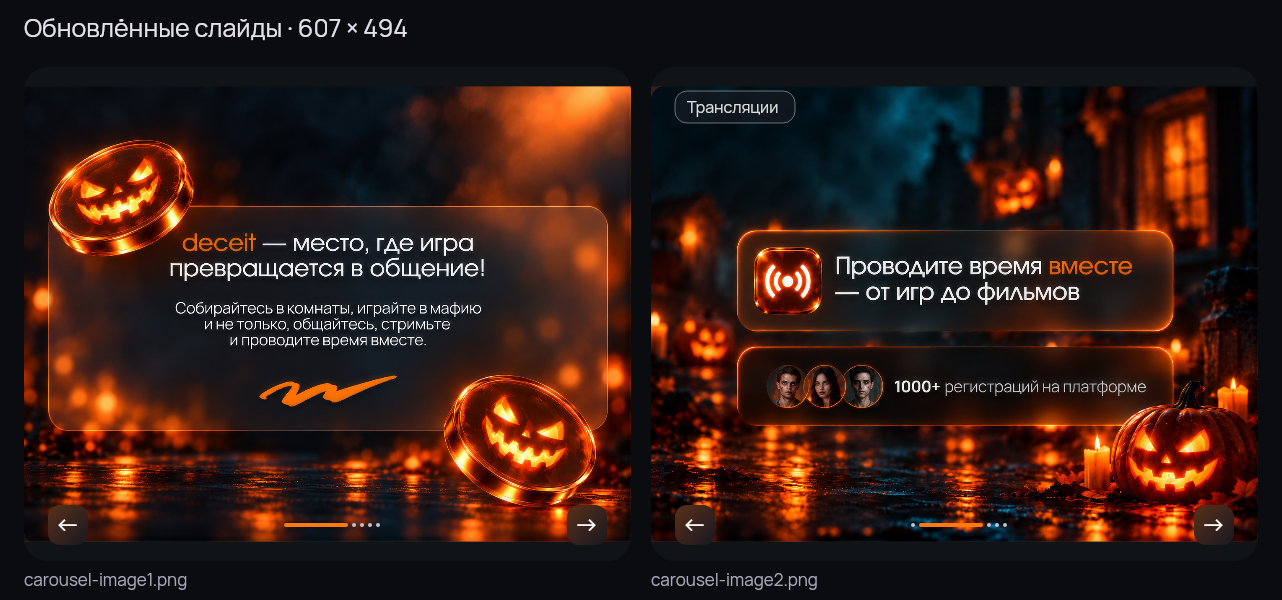
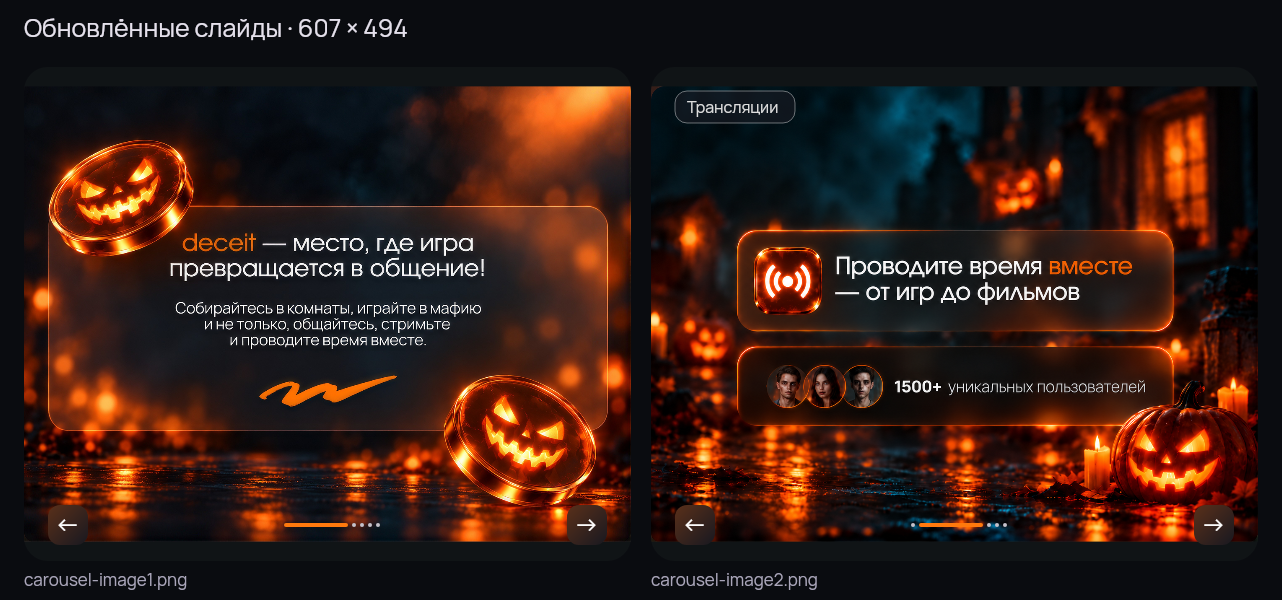
85 halloween redesign homepage

diff --git a/frontend/halloween/preview.html b/frontend/halloween/preview.html
@@ -6,7 +6,7 @@
 *{box-sizing:border-box}body{margin:0;padding:28px;background:#0a0c10;color:#fff;font-family:Hauora-Regular,Arial,sans-serif}header{max-width:1234px;margin:0 auto 24px}h1{font-family:Involve-Medium,Arial,sans-serif;font-size:28px;font-weight:500;margin:0 0 8px}header p{margin:0;color:#aeb5bd;font-size:16px;line-height:1.5}.gallery{display:grid;grid-template-columns:repeat(2,607px);gap:22px 20px;max-width:1234px;margin:auto}h2{font-size:15px;font-weight:400;color:#b8c1ca;margin:0 0 10px}.home-carousel{width:607px;height:494px;position:relative;overflow:hidden;border-radius:24px}.slide{position:absolute;inset:0}.background-image{position:absolute;inset:0;width:607px;height:494px;border-radius:24px}.chip{position:absolute;top:24px;left:24px;z-index:5;padding:8px 12px;border:1px solid #ffffff45;border-radius:12px;background:#ffffff12;backdrop-filter:blur(4px);font-size:16px;line-height:16px;color:#ddd}.carousel-controls{position:absolute;z-index:5;bottom:16px;left:24px;right:24px;display:flex;align-items:center;justify-content:space-between;height:40px}.nav-btn{display:flex;align-items:center;justify-content:center;width:40px;height:40px;border-radius:12px;font:25px Arial;color:white}.carousel-dots{display:flex;align-items:center;gap:4px}.carousel-dot{width:4px;height:4px;border-radius:99px;background:#c5c2cb}.carousel-dot.active{width:64px}.install{position:absolute;z-index:5;left:24px;bottom:88px;background:#ff790d;color:#20130c;border-radius:99px;padding:10px 17px;font-size:18px}.banners{display:flex;flex-direction:column;gap:20px}.right-extra{position:relative;overflow:hidden;border-radius:24px;width:607px;padding:24px;display:flex;align-items:center}.right-extra--primary{height:158px}.right-extra--secondary{height:128px}.right-extra img{position:absolute;inset:0;width:100%;height:100%;object-fit:cover}.right-extra-content{position:relative;z-index:1;display:flex;flex-direction:column;align-items:flex-start;gap:16px}.right-extra-copy-subscription{width:275px;font-family:Involve-Medium;font-size:24px;line-height:26px;letter-spacing:-.48px}.right-extra-copy-accent{margin-left:8px}.right-extra-copy-connect{font-family:Hauora-Bold;font-size:16px;line-height:18px;letter-spacing:-.32px}.right-extra-btn{width:40px;height:40px;border:1px solid #5aa4a5;border-radius:12px;display:grid;place-items:center;font:20px Arial;background:#0a0d12aa}.right-extra-btn span{background:white;color:#15171b;border-radius:99px;width:17px;height:17px;font-size:16px;line-height:17px;text-align:center}@media(max-width:1280px){.gallery{grid-template-columns:607px;justify-content:center}header{max-width:607px}}@media(max-width:660px){body{padding:16px}.gallery{justify-content:start}header{min-width:607px}}
 </style></head><body><header><h1>Выбранный комплект Halloween</h1><p>Слайды 1 и 2 — новые изображения пользователя со встроенным текстом. Слайд 5 и подписка — серия 2; слайды 3 и 4, обратная связь — серия 3.<br>Слайды 1 и 2 вписаны целиком без обрезки; размер области каждого слайда — 607 × 494.</p></header><main class="home-page gallery">
 <section><h2>1 · Знакомство — изображение пользователя</h2><div class="home-carousel"><article class="slide slide--1"><img class="background-image" src="./carousel-image1.png" alt="deceit — место, где игра превращается в общение! Собирайтесь в комнаты, играйте в мафию и не только, общайтесь, стримьте и проводите время вместе."><div class="seasonal-copy seasonal-copy--1" aria-hidden="true"></div></article><div class="carousel-controls" aria-hidden="true"><span class="nav-btn">←</span><div class="carousel-dots"><span class="carousel-dot active"></span><span class="carousel-dot"></span><span class="carousel-dot"></span><span class="carousel-dot"></span><span class="carousel-dot"></span></div><span class="nav-btn">→</span></div></div></section>
-<section><h2>2 · Трансляции — изображение пользователя</h2><div class="home-carousel"><article class="slide slide--2"><img class="background-image" src="./carousel-image2.png" alt="Проводите время вместе — от игр до фильмов. 1000+ регистраций на платформе."><div class="seasonal-copy seasonal-copy--2" aria-hidden="true"></div><span class="chip">Трансляции</span></article><div class="carousel-controls" aria-hidden="true"><span class="nav-btn">←</span><div class="carousel-dots"><span class="carousel-dot"></span><span class="carousel-dot active"></span><span class="carousel-dot"></span><span class="carousel-dot"></span><span class="carousel-dot"></span></div><span class="nav-btn">→</span></div></div></section>
+<section><h2>2 · Трансляции — изображение пользователя</h2><div class="home-carousel"><article class="slide slide--2"><img class="background-image" src="./carousel-image2.png" alt="Проводите время вместе — от игр до фильмов. 1500+ уникальных пользователей."><div class="seasonal-copy seasonal-copy--2" aria-hidden="true"></div><span class="chip">Трансляции</span></article><div class="carousel-controls" aria-hidden="true"><span class="nav-btn">←</span><div class="carousel-dots"><span class="carousel-dot"></span><span class="carousel-dot active"></span><span class="carousel-dot"></span><span class="carousel-dot"></span><span class="carousel-dot"></span></div><span class="nav-btn">→</span></div></div></section>
 <section><h2>3 · Статистика — серия 3</h2><div class="home-carousel"><article class="slide slide--3"><img class="background-image" src="./carousel-image3.png" alt=""><div class="seasonal-copy seasonal-copy--3"><p class="seasonal-copy-caption">Следи за своим уровнем<br>игры и <span class="seasonal-copy-accent">становись сильнее!</span></p></div><span class="chip">Статистика</span></article><div class="carousel-controls" aria-hidden="true"><span class="nav-btn">←</span><div class="carousel-dots"><span class="carousel-dot"></span><span class="carousel-dot"></span><span class="carousel-dot active"></span><span class="carousel-dot"></span><span class="carousel-dot"></span></div><span class="nav-btn">→</span></div></div></section>
 <section><h2>4 · Комьюнити — серия 3</h2><div class="home-carousel"><article class="slide slide--4"><img class="background-image" src="./carousel-image4.png" alt=""><div class="seasonal-copy seasonal-copy--4"><p class="seasonal-copy-caption">Пространство для <span class="seasonal-copy-accent">общения</span><br>и новых знакомств!</p></div><span class="chip">Комьюнити</span></article><div class="carousel-controls" aria-hidden="true"><span class="nav-btn">←</span><div class="carousel-dots"><span class="carousel-dot"></span><span class="carousel-dot"></span><span class="carousel-dot"></span><span class="carousel-dot active"></span><span class="carousel-dot"></span></div><span class="nav-btn">→</span></div></div></section>
 <section><h2>5 · Web App — серия 2</h2><div class="home-carousel"><article class="slide slide--5"><img class="background-image" src="./carousel-image5.png" alt=""><div class="seasonal-copy seasonal-copy--5"><p class="seasonal-copy-caption">Запусти платформу как<br><span class="seasonal-copy-accent">отдельное</span> приложение</p></div><span class="chip">Web App</span><span class="install">Установить</span></article><div class="carousel-controls" aria-hidden="true"><span class="nav-btn">←</span><div class="carousel-dots"><span class="carousel-dot"></span><span class="carousel-dot"></span><span class="carousel-dot"></span><span class="carousel-dot"></span><span class="carousel-dot active"></span></div><span class="nav-btn">→</span></div></div></section>

diff --git a/frontend/halloween/home-options.html b/frontend/halloween/home-options.html
@@ -195,7 +195,7 @@ body{margin:0;background:#090e11}
   }).join('');
   var slides = [
     { title: '', copy: '', alt: 'deceit — место, где игра превращается в общение! Собирайтесь в комнаты, играйте в мафию и не только, общайтесь, стримьте и проводите время вместе.' },
-    { title: 'Трансляции', copy: '', alt: 'Проводите время вместе — от игр до фильмов. 1000+ регистраций на платформе.' },
+    { title: 'Трансляции', copy: '', alt: 'Проводите время вместе — от игр до фильмов. 1500+ уникальных пользователей.' },
     { title: 'Статистика', copy: '<p class="seasonal-copy-caption">Следи за своим уровнем<br>игры и <span class="seasonal-copy-accent">становись сильнее!</span></p>' },
     { title: 'Комьюнити', copy: '<p class="seasonal-copy-caption">Пространство для <span class="seasonal-copy-accent">общения</span><br>и новых знакомств!</p>' },
     { title: 'Web App', copy: '<p class="seasonal-copy-caption">Запусти платформу как<br><span class="seasonal-copy-accent">отдельное</span> приложение</p>' }

diff --git a/frontend/halloween/SeasonalSlideCopy.vue b/frontend/halloween/SeasonalSlideCopy.vue
@@ -6,7 +6,7 @@
     </template>
     <template v-else-if="slide === 2">
       <p class="seasonal-copy-title">Проводите время <span class="seasonal-copy-accent">вместе</span> —<br>от игр до фильмов</p>
-      <p class="seasonal-copy-meta">1000+ регистраций на платформе</p>
+      <p class="seasonal-copy-meta">1500+ уникальных пользователей</p>
     </template>
     <p v-else-if="slide === 3" class="seasonal-copy-caption">Следи за своим уровнем<br>игры и <span class="seasonal-copy-accent">становись сильнее!</span></p>
     <p v-else-if="slide === 4" class="seasonal-copy-caption">Пространство для <span class="seasonal-copy-accent">общения</span><br>и новых знакомств!</p>

diff --git a/frontend/halloween/README.md b/frontend/halloween/README.md
@@ -8,9 +8,9 @@
 - `frontend/src/pages/Room.vue`
 - `frontend/vite.config.ts`
 
-Отдельно, по просьбе пользователя, `frontend/src/assets/images/killPlayer.png` заменён на постоянную иллюстрацию: мафиози в федоре, убитый игрок и бирюзовый призрак. Она используется и без Halloween и остаётся после отката темы. Для Halloween в этой папке находится другая версия `killPlayer.png`. Остальные исходные изображения в `frontend/src/assets/images/` сохранены.
+Отдельно, по просьбе пользователя, `frontend/src/assets/images/killPlayer.png` заменён на постоянную иллюстрацию: мафиози в федоре, убитый игрок и бирюзовый призрак. Она используется и без Halloween и остаётся после отката темы. Для Halloween в этой папке находится другая версия `killPlayer.png`. В обычном `frontend/src/assets/images/carousel-image2.png` также обновлена надпись на «1500+ уникальных пользователей»; эта правка остаётся после отката темы. Остальные исходные изображения в `frontend/src/assets/images/` сохранены.
 
-Первые два слайда `carousel-image1.png` и `carousel-image2.png` заменены прикреплёнными пользователем изображениями 1448×1086 без редактирования. Текст на них сохранён; повторный HTML-слой скрыт только для этих двух слайдов. Они вписываются целиком в карусель через `object-fit: contain`, поэтому края, монеты, тыква и надписи не обрезаются. Остальные слайды сохраняют прежние изображения и отдельный текстовый слой. Эти изменения целиком находятся в папке темы.
+Первые два сезонных слайда `carousel-image1.png` и `carousel-image2.png` используют прикреплённые пользователем изображения. На втором слайде надпись обновлена на «1500+ уникальных пользователей», как и в обычной версии. Повторный HTML-слой скрыт только для этих двух слайдов. Они вписываются целиком в карусель через `object-fit: contain`, поэтому края, монеты, тыква и надписи не обрезаются. Остальные слайды сохраняют прежние изображения и отдельный текстовый слой. Сезонные изменения целиком находятся в папке темы.
 
 В комнате сезонные изображения заменяют шесть игровых статусов, сохраняя прежние условия их показа:
 
@@ -31,11 +31,13 @@
 
 При наведении мыши и фокусе с клавиатуры пальцы кнопки создания комнаты слегка стягиваются к центру, а оранжевая поверхность немного сжимается. При нажатии захват усиливается, при отпускании плавно возвращается. Область клика и текст не двигаются, недоступная кнопка не анимируется. Системная настройка `prefers-reduced-motion: reduce` отключает движение. Эффект выполнен в `theme.css` с существующим изображением пальцев; дополнительных кадров и правок компонентов нет.
 
+Обычный `frontend/src/assets/images/carousel-image2.png` сохранён в исходном разрешении 607×494 с прозрачностью скруглённых углов. Надпись остаётся «1500+ уникальных пользователей».
+
 ## Полный откат к старому дизайну
 
 Сначала прочитайте инструкцию: при удалении папки она тоже исчезнет.
 
-Откат убирает Halloween-оформление. Постоянная замена `frontend/src/assets/images/killPlayer.png` в него не входит: понравившаяся иллюстрация остаётся обычным изображением ночного убийства.
+Откат убирает Halloween-оформление. Постоянная замена `frontend/src/assets/images/killPlayer.png` и надпись «1500+ уникальных пользователей» в обычном `carousel-image2.png` в него не входят: эти изменения сохраняются.
 
 ### Простой способ: готовый патч
 
@@ -195,13 +197,13 @@ npm --prefix frontend run typecheck
 npm --prefix frontend run build
 ```
 
-После обычной публикации вернётся оформление без Halloween, с обновлённым постоянным `killPlayer.png`. Без перечисленных правок удаление исходной папки вызовет ошибку импорта при следующей сборке, поэтому для полного отката нужны оба действия.
+После обычной публикации вернётся оформление без Halloween, с обновлённым постоянным `killPlayer.png` и надписью «1500+ уникальных пользователей» в обычном втором слайде. Без перечисленных правок удаление исходной папки вызовет ошибку импорта при следующей сборке, поэтому для полного отката нужны оба действия.
 
 ## Быстрое отключение на уже работающем сервере
 
 При сборке публикуются семь фоновых PNG, пять декоративных ресурсов (два PNG и три SVG), шесть PNG игровых статусов, `manifest.json` и `theme.css` по прежнему адресу `/seasonal/halloween/`: всего 20 файлов, включая 18 изображений. Инструкция, патч, тесты, промпты и исходные TS-файлы туда не копируются.
 
-Удаление опубликованной папки `seasonal/halloween/` и обновление страницы возвращают штатное оформление без пересборки; новая постоянная версия `killPlayer.png` сохраняется. В текущем контейнере Nginx папка находится в `/usr/share/nginx/html/seasonal/halloween/`.
+Удаление опубликованной папки `seasonal/halloween/` и обновление страницы возвращают штатное оформление без пересборки; новая постоянная версия `killPlayer.png` и надпись «1500+ уникальных пользователей» в обычном втором слайде сохраняются. В текущем контейнере Nginx папка находится в `/usr/share/nginx/html/seasonal/halloween/`.
 
 Это временное отключение до следующего развёртывания из прежнего образа. Для постоянного полного отката выполните раздел выше. Удаление только локальной папки не меняет уже запущенный контейнер.
 
@@ -229,6 +231,7 @@ npm --prefix frontend run build
 - `check-home-season.mjs` — проверки включения темы, отключения и недоступных ресурсов.
 - `preview.html` — локальное превью комплекта; откройте файл в браузере.
 - `carousel-update-preview.png` — предпросмотр первых двух пользовательских изображений в области 607×494 с элементами навигации.
+- `carousel-image2-preview.png` — сравнение обычного и Halloween-слайда с надписью «1500+ уникальных пользователей».
 - `prompts.md` — выбор серий и использованные промпты.
 - `rollback.patch` — готовые правки пяти старых файлов для полного отката.
 - `README.md` — эта инструкция.

diff --git a/frontend/halloween/prompts.md b/frontend/halloween/prompts.md
@@ -1,11 +1,11 @@
 # Выбранный комплект Halloween
 
-Для исходного комплекта использован встроенный image_gen. Серия1 исключена. Позже первые два слайда заменены файлами пользователя без генерации и без редактирования текста (см. раздел замены ниже).
+Для исходного комплекта использован встроенный image_gen. Серия1 исключена. Позже первые два слайда заменены файлами пользователя, а затем надпись второго слайда обновлена отдельно (см. разделы ниже).
 
 | Ресурс | Выбор |
 |---|---|
 | Слайд1 | Новое прикреплённое изображение пользователя: две тыквенные монеты |
-| Слайд2 | Новое прикреплённое изображение пользователя: трансляции, регистрации и тыква |
+| Слайд2 | Прикреплённое изображение пользователя: трансляции, «1500+ уникальных пользователей» и тыква |
 | Слайд3 | Серия3 |
 | Слайд4 | Серия3 |
 | Слайд5 | Серия2 |
@@ -14,7 +14,37 @@
 
 ## Замена первых двух слайдов
 
-Файл `codex-clipboard-8f43df6b-548e-46aa-82af-a47709071ab4.png` скопирован как `carousel-image1.png`; `codex-clipboard-b30a4365-9880-4b93-808f-3e6e387559cd.png` — как `carousel-image2.png`. Оба 1448×1086, сохранены побайтно, без image_gen и без изменения надписей. В `theme.css` скрыт повторный HTML-текст слайдов 1–2 и задано вписывание без обрезки. Промпты ниже для этих двух файлов относятся к прежним версиям; слайды 3–7 остаются прежними.
+Файл `codex-clipboard-8f43df6b-548e-46aa-82af-a47709071ab4.png` скопирован как `carousel-image1.png`; `codex-clipboard-b30a4365-9880-4b93-808f-3e6e387559cd.png` первоначально скопирован как `carousel-image2.png`. На этом этапе оба файла 1448×1086 были сохранены побайтно, без image_gen и без изменения надписей. В `theme.css` скрыт повторный HTML-текст слайдов 1–2 и задано вписывание без обрезки. Промпты исходного комплекта ниже относятся к прежним версиям; слайды 3–7 остаются прежними.
+
+## Актуальная надпись второго слайда
+
+По просьбе пользователя в обычном `frontend/src/assets/images/carousel-image2.png` и сезонном `frontend/halloween/carousel-image2.png` надпись «1000+ регистраций на платформе» заменена на точную строку **«1500+ уникальных пользователей»** с сохранением оформления каждой картинки. Для правки PNG использован встроенный image_gen. Текстовый слой `SeasonalSlideCopy.vue` и `alt` обоих локальных превью приведены к той же строке; сезонный HTML-слой слайда 2 по-прежнему скрыт, чтобы не дублировать надпись на картинке. Изменение обычной версии сохраняется после отката Halloween. Исторические промпты ниже не описывают эту последующую правку.
+
+После генерации обычная версия приведена к исходному размеру 607×494 обычным уменьшением PNG с сохранением прозрачности, без повторной генерации изображения. Сезонная версия остаётся 1448×1086.
+
+### Промпт правки обычной версии
+
+```text
+Use case: text-localization.
+Image 1 is the ONLY EDIT TARGET: the original cool purple/teal website carousel slide. It has rounded outer corners with transparent outside pixels; preserve this alpha.
+Image 2 is a text reference showing the corrected wording, NOT a replacement background or layout.
+Change just the LOWER plaque line from "1000+ регистраций на платформе" to EXACT "1500+ уникальных пользователей", with "1500+" bold and remaining words regular light gray, matching image1 font, baseline, color and line height. One line to the right of the SAME three avatars, fit within the same lower plaque. Preserve ALL other artwork and text from image1, not image2. Do not regenerate the faces, top broadcast icon, abstract purple waves or top lettering. Preserve composition and original 607:494 aspect.
+TRANSPARENCY: retain the entire colored rectangular artwork and dark abstract background as OPAQUE. Transparency ONLY in the tiny areas OUTSIDE the original rounded outer corners. DO NOT remove any internal background; this is a complete website banner, not a foreground cutout. Same subtle 24px corner radius at source 607x494 scale, preserving corner alpha. No black/white fill outside corners.
+Only replace the exact text line. Preserve all rest of source image1 visually unchanged. Complete finished full slide with original background, no extra frame, mockup, labels or watermark.
+```
+
+### Промпт правки Halloween-версии
+
+```text
+Use case: text-localization.
+Edit target: the ONE supplied existing carousel slide image, not a new design.
+Task: Replace ONLY the single lower-plaque text line "1000+ регистраций на платформе" with the exact Russian text "1500+ уникальных пользователей".
+Exact spelling: 1500+ уникальных пользователей
+The plus sign belongs immediately after 1500. Spell Cyrillic exactly; no alternate wording, no quotes added. Make "1500+" bold in the existing bright/light color; keep "уникальных пользователей" in the existing regular-weight light gray. Match the original font family, weight contrast, spacing, alignment and size as closely as possible. Fit the whole phrase on ONE line in the same existing text area without touching the portraits or crossing the plaque's right inner margin; if necessary reduce only this replacement line's font size slightly. The total new phrase is about the same length as the old one.
+Preserve the attached Halloween artwork exactly: realistic dark teal and amber haunted background, glass plaques with glowing orange borders, orange broadcast icon, all three realistic round portrait avatars, evil glowing pumpkin lower right, candles, wet reflections and all lighting. Keep the exact top headline unchanged, including the orange word 'вместе'. The replacement is only in the LOWER plaque, immediately to the right of the portrait avatars, centered on the current line baseline.
+Preservation constraints: this is a surgical text replacement only. Every pixel outside the old text line's small region should remain visually identical: no reframing, cropping, scaling, redraw, retouching, compositional shifts, changed faces, new props, lighting or color changes. Remove old letters cleanly and reconstruct only the tiny dark plaque background directly behind them. Do not leave remnants, doubled lettering or a second line.
+Keep the source canvas dimensions and aspect ratio exactly (1448×1086), preserve any rounded corner transparency and existing alpha. The rest of the image, including all other text, must remain unchanged. Return one finished image of the complete slide, no border, commentary, mockup, side-by-side or watermark.
+```
 
 ## Общий промпт исходного комплекта
 
